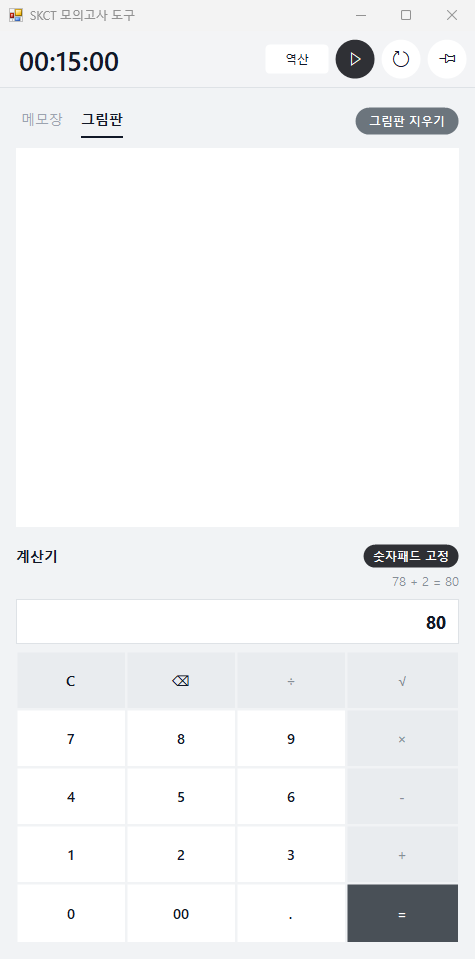
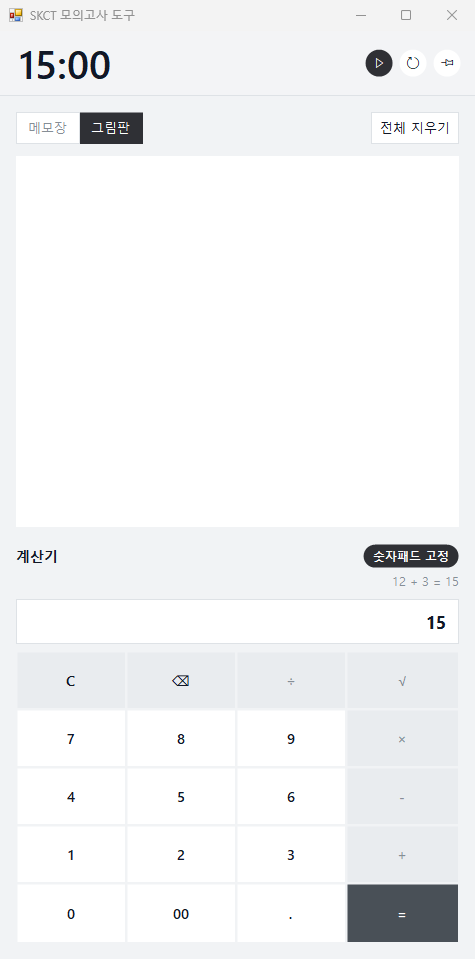
refactor: fix timer to 15-minute countdown and square up memo controls
- Remove the stopwatch mode; the timer is a 15-minute countdown only
- Show the timer as MM:SS in a larger font and shrink its buttons to
  small circles so they don't read like the memo controls
- Replace the text tabs and pill clear button with square buttons:
  a joined [메모장|그림판] toggle and a bordered "전체 지우기"
- Update README and screenshot

diff --git a/SKCTAddon.cs b/SKCTAddon.cs
@@ -1,4 +1,4 @@
-// SKCT 모의고사 도구: 타이머(15분 역산/스톱워치) + 메모장/그림판 + 계산기(SKCT 배치, 숫자패드 고정)
+// SKCT 모의고사 도구: 타이머(15분 역산) + 메모장/그림판 + 계산기(SKCT 배치, 숫자패드 고정)
 // 빌드: csc /nologo /target:winexe /codepage:65001 /r:System.Windows.Forms.dll /r:System.Drawing.dll /out:SKCTAddon.exe SKCTAddon.cs
 using System;
 using System.Collections.Generic;
@@ -35,8 +35,6 @@ static class Theme
     public static readonly Color OpText = Color.FromArgb(134, 142, 150);
     public static readonly Color Equal = Color.FromArgb(73, 80, 87);
     public static readonly Color EqualHover = Color.FromArgb(52, 58, 64);
-    public static readonly Color Pill = Color.FromArgb(108, 117, 125);
-    public static readonly Color PillHover = Color.FromArgb(84, 91, 98);
 
     public static float S = 1f;   // DPI 배율
     public static int Px(float v) { return (int)Math.Round(v * S); }
@@ -53,6 +51,7 @@ class FlatButton : Control
     public Color Base = Theme.Btn;
     public Color Hover = Theme.BtnHover;
     public int Radius = Theme.Px(4);
+    public Color BorderColor = Color.Empty;   // 비어 있으면 테두리 없음
     public event EventHandler Pressed;
 
     protected bool active, over, down;
@@ -109,6 +108,11 @@ class FlatButton : Control
         using (GraphicsPath p = RoundRect(new Rectangle(0, 0, Width - 1, Height - 1), Radius))
         using (SolidBrush b = new SolidBrush(bg))
             g.FillPath(b, p);
+        if (BorderColor != Color.Empty && !active)
+        {
+            g.SmoothingMode = SmoothingMode.None;
+            using (Pen pen = new Pen(BorderColor)) g.DrawRectangle(pen, 0, 0, Width - 1, Height - 1);
+        }
         TextRenderer.DrawText(g, Text, Font, ClientRectangle, fg,
             TextFormatFlags.HorizontalCenter | TextFormatFlags.VerticalCenter | TextFormatFlags.NoPadding);
     }
@@ -124,29 +128,6 @@ class FlatButton : Control
         p.AddArc(r.X, r.Bottom - d, d, d, 90, 90);
         p.CloseFigure();
         return p;
-    }
-}
-
-// 글자형 탭: 선택되면 굵은 글씨 + 밑줄
-class TabButton : FlatButton
-{
-    public TabButton(string text) : base(text) { }
-
-    protected override void OnPaint(PaintEventArgs e)
-    {
-        Graphics g = e.Graphics;
-        g.Clear(Parent != null ? Parent.BackColor : Theme.Panel);
-        using (Font f = new Font("맑은 고딕", 10f, active ? FontStyle.Bold : FontStyle.Regular))
-        {
-            Color fg = active ? Theme.Text : (over ? Theme.OpText : Theme.SubText);
-            Size sz = TextRenderer.MeasureText(g, Text, f, Size.Empty, TextFormatFlags.NoPadding);
-            int x = (Width - sz.Width) / 2;
-            int y = (Height - Theme.Px(3) - sz.Height) / 2;
-            TextRenderer.DrawText(g, Text, f, new Point(x, y), fg, TextFormatFlags.NoPadding);
-            if (active)
-                using (SolidBrush b = new SolidBrush(Theme.Text))
-                    g.FillRectangle(b, x, Height - Theme.Px(2), sz.Width, Theme.Px(2));
-        }
     }
 }
 
@@ -310,8 +291,7 @@ class MemoPanel : Panel
     public const int HeaderHeight = 44;
 
     readonly Panel header;
-    readonly TabButton tabText, tabDraw;
-    readonly FlatButton clearBtn;
+    readonly FlatButton tabText, tabDraw, clearBtn;
     readonly Canvas canvas;
     readonly Panel textHost;
     readonly CueTextBox text;
@@ -345,13 +325,11 @@ class MemoPanel : Panel
         header.Dock = DockStyle.Top;
         header.Height = Theme.Px(HeaderHeight);
         header.BackColor = Theme.Panel;
-        tabText = new TabButton("메모장");
-        tabDraw = new TabButton("그림판");
-        clearBtn = new FlatButton("그림판 지우기");
-        clearBtn.Base = Theme.Pill;
-        clearBtn.Hover = Theme.PillHover;
-        clearBtn.ForeColor = Color.White;
-        clearBtn.Font = new Font("맑은 고딕", 9f, FontStyle.Bold);
+        // 사각형 버튼: [메모장|그림판] 붙은 전환 버튼 + 오른쪽 전체 지우기
+        tabText = SquareButton("메모장");
+        tabDraw = SquareButton("그림판");
+        clearBtn = SquareButton("전체 지우기");
+        clearBtn.ForeColor = Theme.Text;
         tabText.Pressed += delegate { SetMode(false); };
         tabDraw.Pressed += delegate { SetMode(true); };
         clearBtn.Pressed += delegate { ClearCurrent(); };
@@ -368,6 +346,18 @@ class MemoPanel : Panel
         SetMode(true);
     }
 
+    static FlatButton SquareButton(string text)
+    {
+        FlatButton b = new FlatButton(text);
+        b.Radius = 0;
+        b.Base = Color.White;
+        b.Hover = Theme.KeyWhiteHover;
+        b.BorderColor = Theme.Border;
+        b.ForeColor = Theme.OpText;
+        b.Font = new Font("맑은 고딕", 9.5f);
+        return b;
+    }
+
     public bool DrawMode { get { return drawMode; } }
     public bool Typing { get { return text.Focused; } }
 
@@ -378,7 +368,6 @@ class MemoPanel : Panel
         textHost.Visible = !draw;
         tabDraw.Active = draw;
         tabText.Active = !draw;
-        clearBtn.Text = draw ? "그림판 지우기" : "메모장 지우기";
         FocusCurrent();
     }
 
@@ -395,12 +384,10 @@ class MemoPanel : Panel
 
     void LayoutHeader()
     {
-        int th = Theme.Px(34), tw = Theme.Px(52);
-        tabText.SetBounds(0, 0, tw, th);
-        tabDraw.SetBounds(tw + Theme.Px(8), 0, tw, th);
-        int ch = Theme.Px(28), cw = Theme.Px(104);
-        clearBtn.SetBounds(header.Width - cw, (th - ch) / 2, cw, ch);
-        clearBtn.Radius = ch / 2;
+        int h = Theme.Px(32), tw = Theme.Px(64), cw = Theme.Px(88);
+        tabText.SetBounds(0, 0, tw, h);
+        tabDraw.SetBounds(tw - 1, 0, tw, h);   // 테두리 한 줄을 겹쳐서 붙인 버튼처럼
+        clearBtn.SetBounds(header.Width - cw, 0, cw, h);
     }
 }
 
@@ -776,14 +763,13 @@ class MainForm : Form
     readonly ToolTip tip = new ToolTip();
     readonly Panel bar;
     readonly Label timeLabel;
-    readonly FlatButton modeBtn, playBtn, resetBtn, pinBtn;
+    readonly FlatButton playBtn, resetBtn, pinBtn;
     readonly MemoPanel memo;
     readonly CalcPanel calc;
     readonly SplitContainer split;
     int calcHeight;
     bool startDraw = true;
     bool restoredBounds;
-    bool countdown = true;   // 켤 때마다 역산으로 시작
     bool finished;           // 역산이 0에 도달
     bool numpadOn = true;    // 숫자패드 고정 (저장됨)
 
@@ -798,32 +784,25 @@ class MainForm : Form
         // 타이머 바
         bar = new Panel();
         bar.Dock = DockStyle.Top;
-        bar.Height = Theme.Px(56);
+        bar.Height = Theme.Px(64);
         bar.BackColor = Theme.Bar;
         timeLabel = new Label();
         timeLabel.AutoSize = false;
-        timeLabel.Font = new Font("Segoe UI Semibold", 20f);
+        timeLabel.Font = new Font("Segoe UI Semibold", 30f);
         timeLabel.ForeColor = Theme.Text;
         timeLabel.BackColor = Theme.Bar;
         timeLabel.TextAlign = ContentAlignment.MiddleLeft;
-        modeBtn = new FlatButton("역산");
-        modeBtn.Base = Color.White;
-        modeBtn.Hover = Theme.BtnHover;
-        modeBtn.Font = new Font("맑은 고딕", 9f);
         playBtn = IconButton(PlayGlyph);
         playBtn.Base = Theme.Accent; playBtn.Hover = Theme.AccentHover; playBtn.ForeColor = Color.White;
         resetBtn = IconButton("");
         pinBtn = IconButton("");
-        modeBtn.Pressed += delegate { ToggleMode(); };
         playBtn.Pressed += delegate { TogglePlay(); };
         resetBtn.Pressed += delegate { ResetTime(); };
         pinBtn.Pressed += delegate { TopMost = !TopMost; pinBtn.Active = TopMost; };
-        tip.SetToolTip(modeBtn, "역산(" + CountdownMinutes + "분) ↔ 스톱워치 전환");
         tip.SetToolTip(playBtn, "시작 / 일시정지");
-        tip.SetToolTip(resetBtn, "처음으로 초기화");
+        tip.SetToolTip(resetBtn, CountdownMinutes + "분으로 초기화");
         tip.SetToolTip(pinBtn, "항상 위에 표시");
         bar.Controls.Add(timeLabel);
-        bar.Controls.Add(modeBtn);
         bar.Controls.Add(playBtn);
         bar.Controls.Add(resetBtn);
         bar.Controls.Add(pinBtn);
@@ -871,33 +850,21 @@ class MainForm : Form
     static FlatButton IconButton(string glyph)
     {
         FlatButton b = new FlatButton(glyph);
-        b.Font = new Font("Segoe MDL2 Assets", 12f);
+        b.Font = new Font("Segoe MDL2 Assets", 9f);
         b.Base = Color.White;
         b.Hover = Theme.BtnHover;
         return b;
     }
 
+    // 타이머 버튼은 작은 원형으로 (아래 사각형 버튼들과 헷갈리지 않게)
     void LayoutBar(Panel bar)
     {
-        int p = Theme.Px(8), s = bar.Height - 2 * p, gap = Theme.Px(6);
-        pinBtn.SetBounds(bar.Width - p - s, p, s, s);
-        resetBtn.SetBounds(pinBtn.Left - gap - s, p, s, s);
-        playBtn.SetBounds(resetBtn.Left - gap - s, p, s, s);
+        int s = Theme.Px(28), gap = Theme.Px(6), y = (bar.Height - s) / 2;
+        pinBtn.SetBounds(bar.Width - Theme.Px(14) - s, y, s, s);
+        resetBtn.SetBounds(pinBtn.Left - gap - s, y, s, s);
+        playBtn.SetBounds(resetBtn.Left - gap - s, y, s, s);
         pinBtn.Radius = resetBtn.Radius = playBtn.Radius = s / 2;
-        int mw = Theme.Px(64), mh = Theme.Px(30);
-        modeBtn.SetBounds(playBtn.Left - gap - mw, (bar.Height - mh) / 2, mw, mh);
-        timeLabel.SetBounds(Theme.Px(12), 0, Math.Max(0, modeBtn.Left - Theme.Px(12)), bar.Height);
-    }
-
-    void ToggleMode()
-    {
-        countdown = !countdown;
-        modeBtn.Text = countdown ? "역산" : "스톱워치";
-        sw.Reset();
-        tick.Stop();
-        finished = false;
-        playBtn.Text = PlayGlyph;
-        UpdateTime();
+        timeLabel.SetBounds(Theme.Px(10), 0, Math.Max(0, playBtn.Left - Theme.Px(18)), bar.Height);
     }
 
     void TogglePlay()
@@ -922,21 +889,19 @@ class MainForm : Form
 
     void UpdateTime()
     {
-        TimeSpan t;
-        if (countdown)
+        TimeSpan left = TimeSpan.FromMinutes(CountdownMinutes) - sw.Elapsed;
+        if (left <= TimeSpan.Zero)
         {
-            TimeSpan left = TimeSpan.FromMinutes(CountdownMinutes) - sw.Elapsed;
-            if (left <= TimeSpan.Zero)
-            {
-                left = TimeSpan.Zero;
-                if (sw.IsRunning) { sw.Stop(); tick.Stop(); playBtn.Text = PlayGlyph; }
-                finished = true;
-            }
-            t = TimeSpan.FromSeconds(Math.Ceiling(left.TotalSeconds));
+            left = TimeSpan.Zero;
+            if (sw.IsRunning) { sw.Stop(); tick.Stop(); playBtn.Text = PlayGlyph; }
+            finished = true;
         }
-        else t = sw.Elapsed;
+        TimeSpan t = TimeSpan.FromSeconds(Math.Ceiling(left.TotalSeconds));
 
-        string s = string.Format("{0:00}:{1:00}:{2:00}", (int)t.TotalHours, t.Minutes, t.Seconds);
+        // 15:00 형식 (역산 시간을 1시간 이상으로 바꾸면 1:00:00 형식)
+        string s = t.TotalHours >= 1
+            ? string.Format("{0}:{1:00}:{2:00}", (int)t.TotalHours, t.Minutes, t.Seconds)
+            : string.Format("{0:00}:{1:00}", t.Minutes, t.Seconds);
         if (timeLabel.Text != s) timeLabel.Text = s;
 
         // 시간 종료: 빨간색으로 표시

diff --git a/README.md b/README.md
@@ -1,26 +1,25 @@
 # SKCT 모의고사 도구 (SKCTAddon)
 
 SKCT 온라인 모의고사를 풀 때 화면 오른쪽에 띄워 두는 보조 창입니다.
-그림판, 계산기, 시계 앱을 따로 켜 두던 것을 창 하나로 합쳤고, 오른쪽 영역(메모장/그림판, 계산기)은 모의고사 화면 모양에 맞췄습니다.
+그림판, 계산기, 시계 앱을 따로 켜 두던 것을 창 하나로 합쳤습니다. 계산기는 시험용 계산기와 같은 버튼 배치로 연습할 수 있게 했습니다.
 
 <img src="docs/screenshot.png" width="320" alt="SKCTAddon 화면">
 
 ## 기능
 
 ### 타이머
-- 켜면 항상 **15분 역산**으로 시작합니다.
-- **역산** 버튼을 누르면 스톱워치(0부터 올라감)로 바뀝니다. 바꿀 때마다 시간은 처음 값으로 돌아갑니다.
+- **15분 역산** 타이머입니다. `15:00`에서 시작해 0까지 셉니다.
 - 0이 되면 자동으로 멈추고 타이머 줄이 빨간색으로 바뀝니다. 그 상태에서 ▶를 누르면 15:00부터 다시 시작합니다.
-- ↺는 돌아가던 중이면 처음부터 이어서 세고, 멈춰 있으면 처음 값에서 기다립니다.
+- ↺는 돌아가던 중이면 15:00부터 이어서 세고, 멈춰 있으면 15:00에서 기다립니다.
 - 📌을 켜면 창이 항상 위에 표시됩니다.
 
 ### 메모장 / 그림판
-- 탭으로 전환하고, 전환해도 양쪽 내용이 각각 남습니다.
-- **메모장 지우기 / 그림판 지우기**는 지금 보이는 쪽만 확인 창 없이 바로 비웁니다.
+- **메모장 | 그림판** 버튼으로 전환하고, 전환해도 양쪽 내용이 각각 남습니다.
+- **전체 지우기**는 지금 보이는 쪽만 확인 창 없이 바로 비웁니다.
 - 그림판 펜은 검은색 한 가지, 두께도 하나로 고정입니다.
 
 ### 계산기
-- 모의고사 화면과 같은 배치입니다: `C ⌫ ÷ √` / `7 8 9 ×` / `4 5 6 -` / `1 2 3 +` / `0 00 . =`
+- 버튼 배치: `C ⌫ ÷ √` / `7 8 9 ×` / `4 5 6 -` / `1 2 3 +` / `0 00 . =`
 - 누른 순서대로 계산합니다(일반 계산기 방식). `2 + 3 × 4 =`는 20입니다.
 - 유효숫자 16자리까지 표시하고, 1,234,567처럼 세 자리마다 쉼표를 찍습니다.
 - 결과 칸 위에는 마지막 계산식(예: `78 + 2 = 80`)이 나옵니다.
